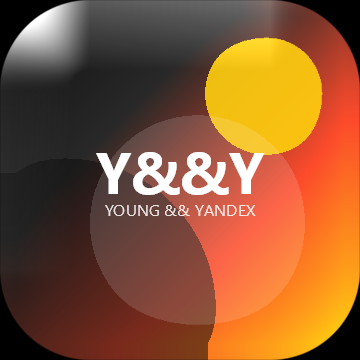
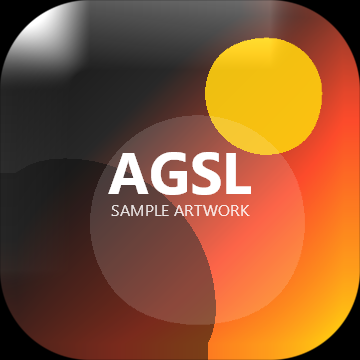
Убрать подпись Y&&Y / YOUNG && YANDEX из тестовой картинки
Заменил на AGSL / SAMPLE ARTWORK в демо и в скрипте рендера превью,
перегенерировал затронутые PNG.

Changed region(s): [[0.275, 0.3972, 0.7333, 0.6111]]

diff --git a/demo/src/main/kotlin/com/mikhailov/agslfx/demo/ui/SampleContent.kt b/demo/src/main/kotlin/com/mikhailov/agslfx/demo/ui/SampleContent.kt
@@ -66,14 +66,14 @@ fun SampleArtwork(modifier: Modifier = Modifier) {
             verticalArrangement = Arrangement.spacedBy(2.dp),
         ) {
             Text(
-                text = "Y&&Y",
+                text = "AGSL",
                 color = Color.White,
                 fontSize = 44.sp,
                 fontWeight = FontWeight.Black,
                 fontFamily = FontFamily.SansSerif,
             )
             Text(
-                text = "YOUNG && YANDEX",
+                text = "SAMPLE ARTWORK",
                 color = Color.White.copy(alpha = 0.85f),
                 fontSize = 12.sp,
                 textAlign = TextAlign.Center,

diff --git a/tools/render_previews.py b/tools/render_previews.py
@@ -80,11 +80,11 @@ def sample_artwork(size):
         try:
             mark = skia.Font(skia.Typeface.MakeFromName("DejaVu Sans", skia.FontStyle.Bold()), size * 0.16)
             caption = skia.Font(skia.Typeface.MakeFromName("DejaVu Sans", skia.FontStyle.Normal()), size * 0.045)
-            canvas.drawTextBlob(skia.TextBlob("Y&&Y", mark),
-                                (size - mark.measureText("Y&&Y")) / 2, size * 0.54,
+            canvas.drawTextBlob(skia.TextBlob("AGSL", mark),
+                                (size - mark.measureText("AGSL")) / 2, size * 0.54,
                                 skia.Paint(Color=0xFFFFFFFF))
-            canvas.drawTextBlob(skia.TextBlob("YOUNG && YANDEX", caption),
-                                (size - caption.measureText("YOUNG && YANDEX")) / 2, size * 0.60,
+            canvas.drawTextBlob(skia.TextBlob("SAMPLE ARTWORK", caption),
+                                (size - caption.measureText("SAMPLE ARTWORK")) / 2, size * 0.60,
                                 skia.Paint(Color=0xD9FFFFFF))
         except Exception:  # шрифта может не быть — превью останется без подписи
             pass
